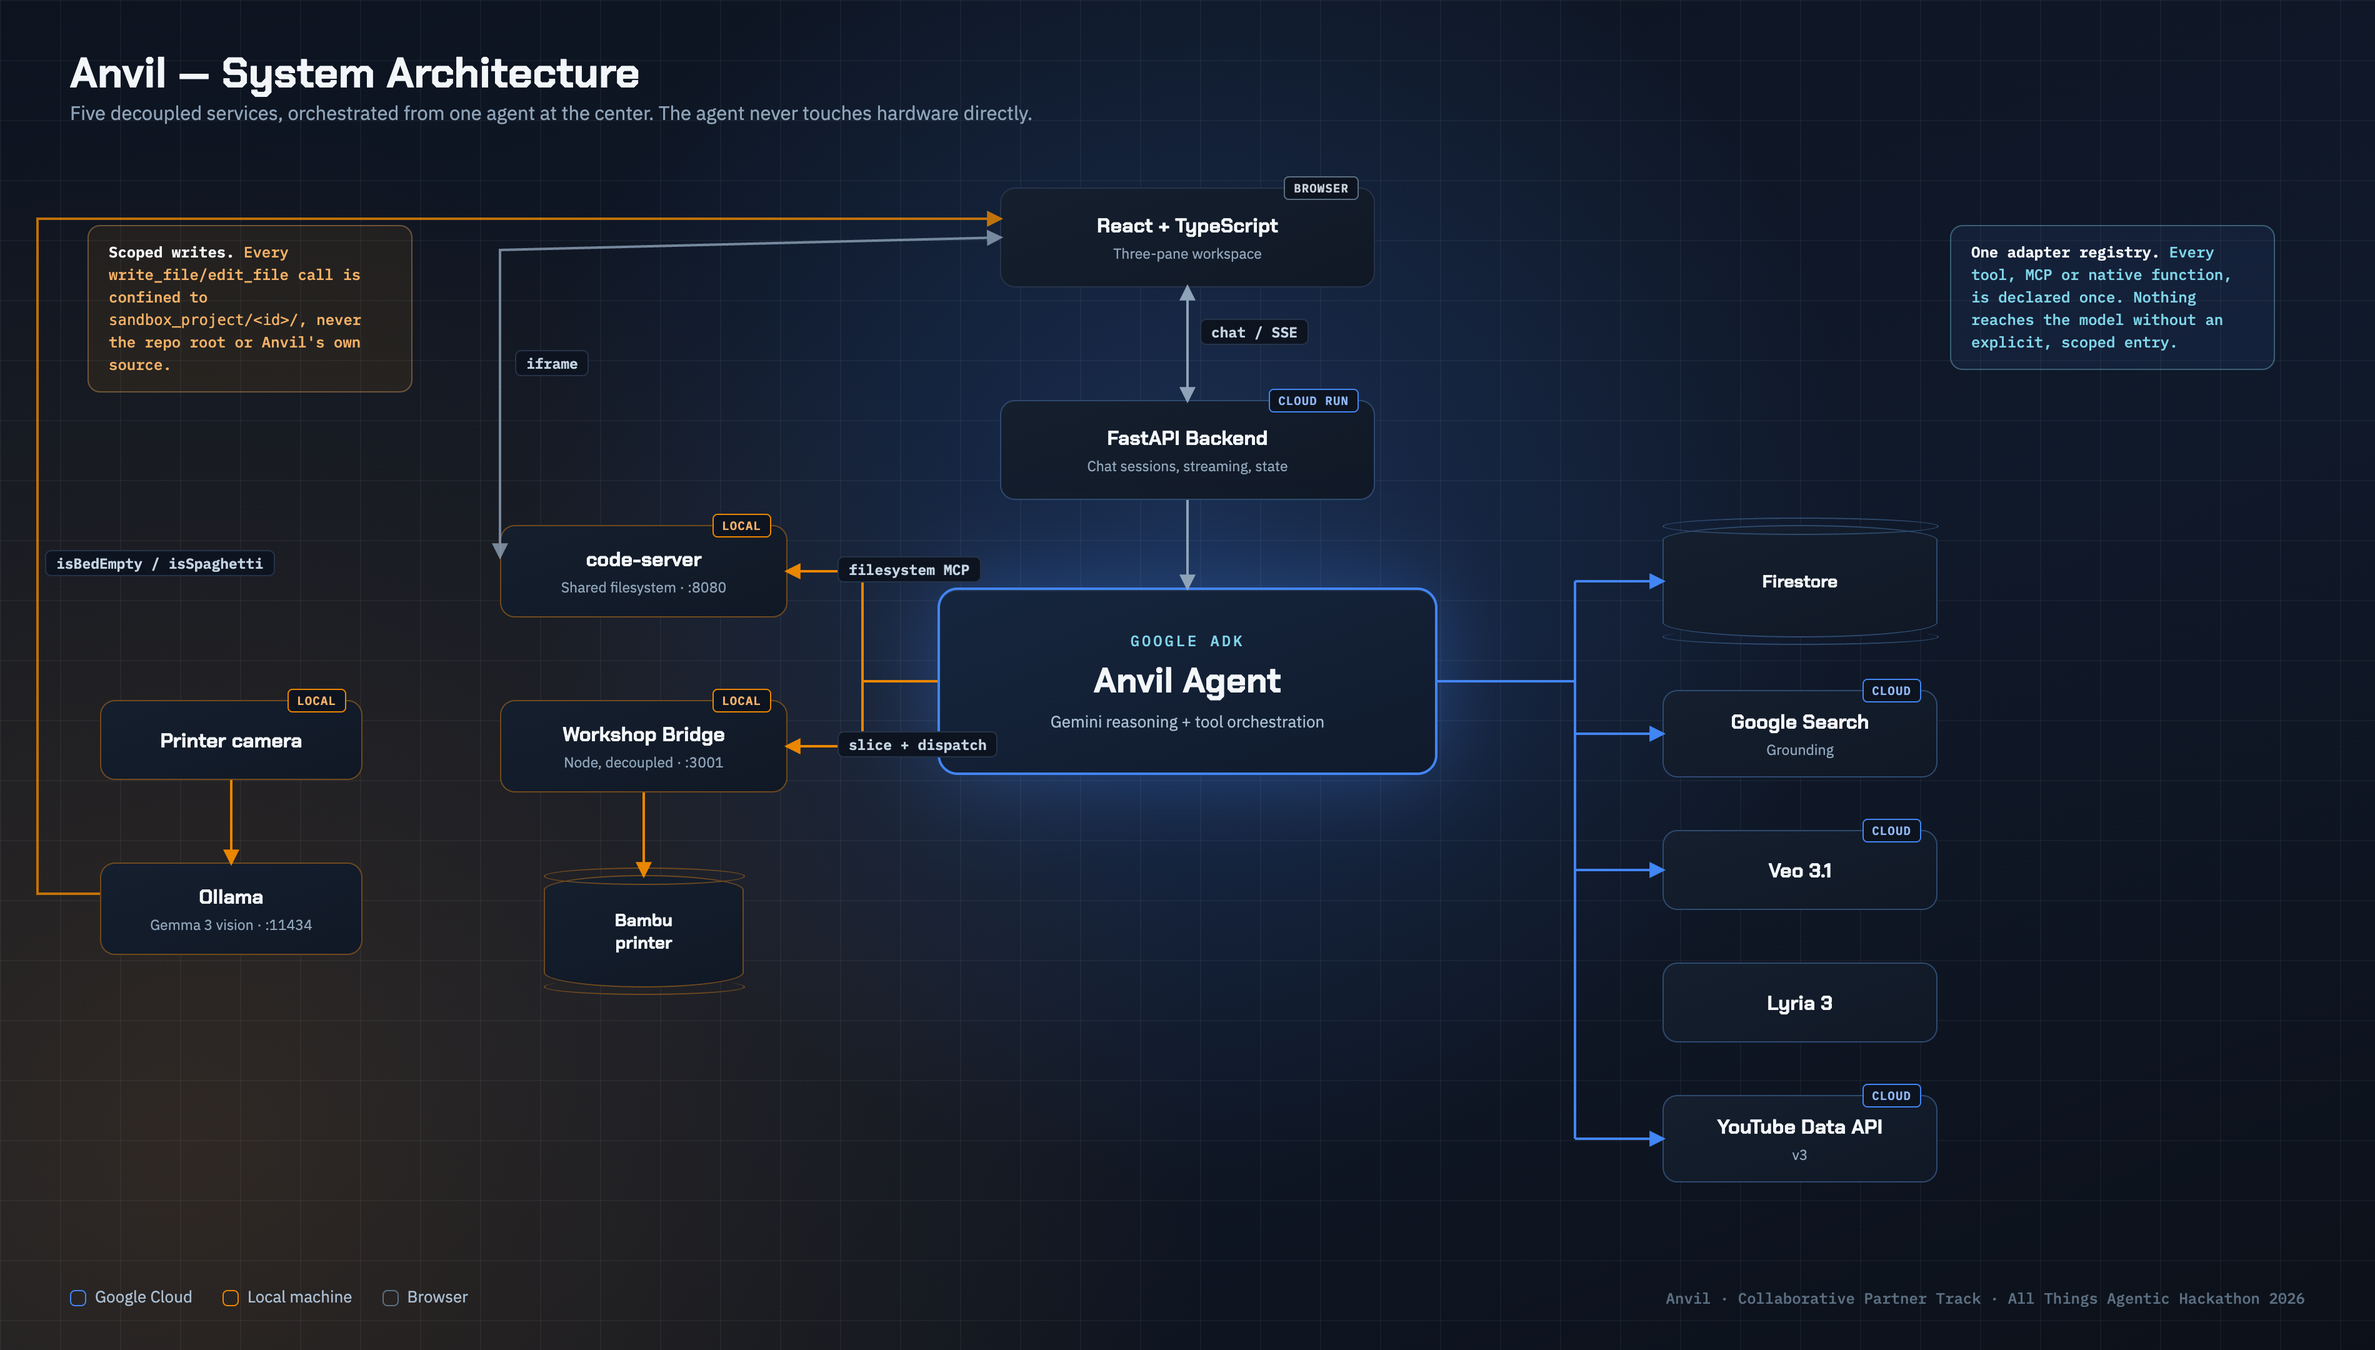
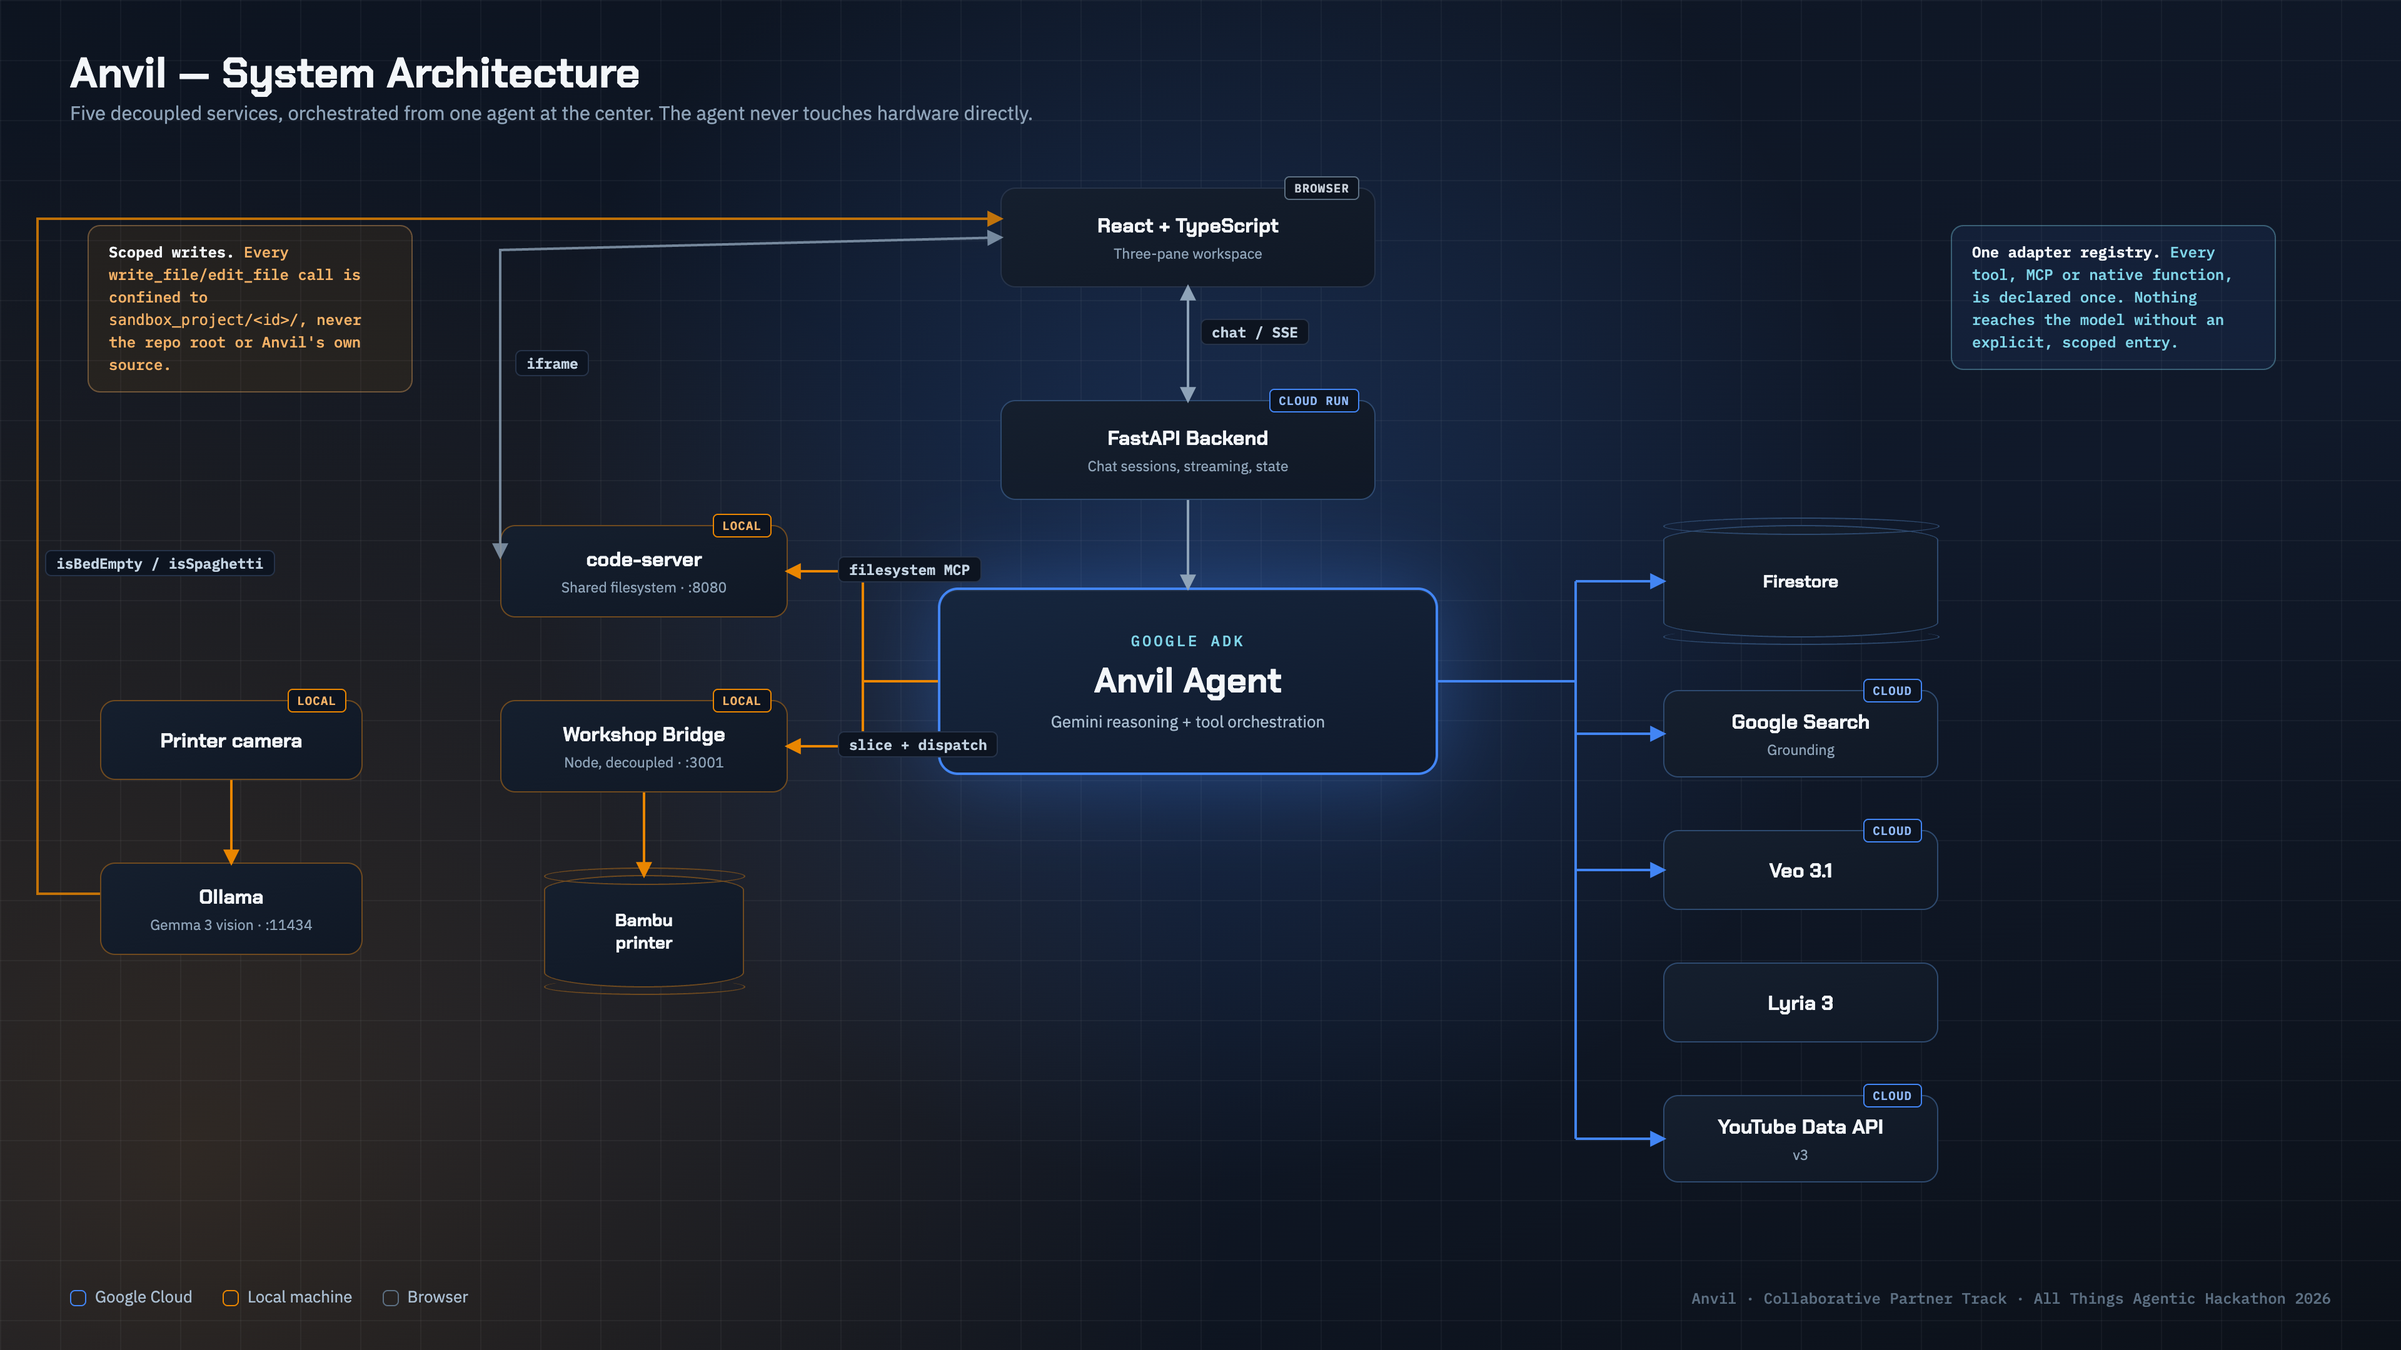
Convert all submission images to 16:9
Resizes the thumbnail (was 3:2) and both architecture diagrams to exact
1920x1080. The overview diagram only needed a canvas widen, but the
tool-registry diagram was a tall single column built specifically to
keep every wire straight — that needed a real relayout: hub on the left,
two columns of four cards, with the far column's wires routed on a rail
above the near column instead of through it, so nothing crosses.

Also fixes a wire-color bug introduced in the relayout: the near
column's trunk was painted solid blue even though it mixes one MCP card
with three Custom ones. Trunk is now neutral, and only the per-card
branch stubs carry a color, matching that card's actual backing type.

diff --git a/submission/assets/_render/architecture-tools.html b/submission/assets/_render/architecture-tools.html
@@ -8,7 +8,7 @@
 <style>
   *{box-sizing:border-box;margin:0;padding:0;}
   body{
-    width:1780px;height:1420px;
+    width:1920px;height:1080px;
     background:
       radial-gradient(circle at 8% 30%, rgba(66,133,244,0.22), transparent 45%),
       radial-gradient(circle at 92% 75%, rgba(234,134,0,0.14), transparent 42%),
@@ -22,48 +22,48 @@
       linear-gradient(90deg, rgba(255,255,255,0.04) 1px, transparent 1px);
     background-size:48px 48px;
   }
-  .stage{position:relative;width:1780px;height:1420px;}
+  .stage{position:relative;width:1920px;height:1080px;}
 
-  h1{font-family:'Chakra Petch',sans-serif;font-weight:700;font-size:36px;color:#f3f6f9;position:absolute;left:64px;top:44px;}
-  .sub{position:absolute;left:64px;top:92px;font-size:16px;color:#8ea3b8;max-width:1000px;}
+  h1{font-family:'Chakra Petch',sans-serif;font-weight:700;font-size:34px;color:#f3f6f9;position:absolute;left:56px;top:36px;}
+  .sub{position:absolute;left:56px;top:82px;font-size:15px;color:#8ea3b8;max-width:1100px;}
 
   .hub{
-    position:absolute;left:64px;top:170px;width:400px;height:1100px;
+    position:absolute;left:60px;top:190px;width:400px;height:740px;
     background:linear-gradient(160deg,#132238,#0f1a2b);
     border:2px solid #4285F4;border-radius:18px;
     box-shadow:0 0 60px rgba(66,133,244,0.25), inset 0 1px 0 rgba(255,255,255,0.06);
-    display:flex;flex-direction:column;align-items:center;justify-content:center;text-align:center;padding:40px;
+    display:flex;flex-direction:column;align-items:center;justify-content:center;text-align:center;padding:36px;
   }
-  .hub .eyebrow{font-family:'IBM Plex Mono',monospace;font-size:13px;letter-spacing:0.18em;color:#7fd4e8;text-transform:uppercase;margin-bottom:18px;}
-  .hub h2{font-family:'Chakra Petch',sans-serif;font-weight:700;font-size:34px;color:#f3f6f9;line-height:1.15;}
-  .hub .sub2{font-size:16px;color:#a9bdd0;margin-top:14px;line-height:1.5;}
-  .hub .stat{margin-top:38px;font-family:'IBM Plex Mono',monospace;font-size:14px;color:#7fd4e8;border-top:1px solid rgba(127,212,232,0.25);padding-top:22px;width:100%;}
-  .hub .stat b{color:#f3f6f9;font-size:22px;display:block;font-weight:600;}
+  .hub .eyebrow{font-family:'IBM Plex Mono',monospace;font-size:12.5px;letter-spacing:0.18em;color:#7fd4e8;text-transform:uppercase;margin-bottom:16px;}
+  .hub h2{font-family:'Chakra Petch',sans-serif;font-weight:700;font-size:31px;color:#f3f6f9;line-height:1.15;}
+  .hub .sub2{font-size:14.5px;color:#a9bdd0;margin-top:13px;line-height:1.5;}
+  .hub .stat{margin-top:32px;font-family:'IBM Plex Mono',monospace;font-size:13px;color:#7fd4e8;border-top:1px solid rgba(127,212,232,0.25);padding-top:20px;width:100%;}
+  .hub .stat b{color:#f3f6f9;font-size:21px;display:block;font-weight:600;}
 
   .card{
-    position:absolute;left:664px;width:1052px;height:120px;
+    position:absolute;width:570px;height:170px;
     background:linear-gradient(160deg,#151f2e,#101825);
     border:1.5px solid #263349;border-radius:14px;
-    padding:16px 22px;display:flex;flex-direction:column;justify-content:center;
+    padding:15px 20px;display:flex;flex-direction:column;justify-content:center;
   }
   .card::before{content:"";position:absolute;left:0;top:14px;bottom:14px;width:4px;border-radius:3px;}
   .card.mcp::before{background:#4285F4;}
   .card.custom::before{background:#EA8600;}
   .card-head{display:flex;align-items:center;justify-content:space-between;margin-bottom:6px;}
-  .card-name{font-family:'Chakra Petch',sans-serif;font-weight:700;font-size:20px;color:#f3f6f9;}
-  .tag{font-family:'IBM Plex Mono',monospace;font-size:10.5px;font-weight:600;letter-spacing:0.06em;padding:3px 9px;border-radius:5px;text-transform:uppercase;}
+  .card-name{font-family:'Chakra Petch',sans-serif;font-weight:700;font-size:19px;color:#f3f6f9;}
+  .tag{font-family:'IBM Plex Mono',monospace;font-size:10px;font-weight:600;letter-spacing:0.06em;padding:3px 8px;border-radius:5px;text-transform:uppercase;}
   .tag.mcp{background:rgba(66,133,244,0.14);color:#8fb8f7;border:1px solid rgba(66,133,244,0.5);}
   .tag.custom{background:rgba(234,134,0,0.14);color:#f4b166;border:1px solid rgba(234,134,0,0.5);}
-  .card-desc{font-size:13.5px;color:#8ea3b8;line-height:1.4;margin-bottom:9px;}
+  .card-desc{font-size:13px;color:#8ea3b8;line-height:1.4;margin-bottom:8px;}
   .chips{display:flex;flex-wrap:wrap;gap:6px;}
-  .chip{font-family:'IBM Plex Mono',monospace;font-size:11.5px;color:#c3d3e2;background:rgba(255,255,255,0.05);border:1px solid rgba(255,255,255,0.1);border-radius:5px;padding:3px 8px;}
+  .chip{font-family:'IBM Plex Mono',monospace;font-size:11px;color:#c3d3e2;background:rgba(255,255,255,0.05);border:1px solid rgba(255,255,255,0.1);border-radius:5px;padding:3px 7px;}
   .chip.more{color:#6b7f93;font-style:italic;border-style:dashed;}
 
   svg.wires{position:absolute;inset:0;overflow:visible;}
 
-  .legend{position:absolute;left:64px;bottom:40px;display:flex;gap:26px;align-items:center;font-size:13.5px;color:#a9bdd0;}
+  .legend{position:absolute;left:56px;bottom:32px;display:flex;gap:26px;align-items:center;font-size:13px;color:#a9bdd0;}
   .legend .sw{width:14px;height:14px;border-radius:4px;display:inline-block;margin-right:8px;vertical-align:middle;}
-  .footer{position:absolute;right:64px;bottom:40px;font-family:'IBM Plex Mono',monospace;font-size:12.5px;color:#5c6f82;}
+  .footer{position:absolute;right:56px;bottom:32px;font-family:'IBM Plex Mono',monospace;font-size:12px;color:#5c6f82;}
 </style>
 </head>
 <body>
@@ -79,50 +79,51 @@
     <div class="stat"><b>65</b>tools across 8 adapters</div>
   </div>
 
-  <!-- 8 adapter cards, single column, one wire each = zero possible crossings -->
-  <div class="card mcp" style="top:170px;">
+  <!-- column 1: near column, straight wires from the hub's right edge -->
+  <div class="card mcp" style="left:650px;top:190px;">
     <div class="card-head"><span class="card-name">filesystem</span><span class="tag mcp">MCP</span></div>
     <div class="card-desc">Read/write/list files in the active project directory only.</div>
     <div class="chips"><span class="chip">read_text_file</span><span class="chip">write_file</span><span class="chip">edit_file</span><span class="chip more">+3 more</span></div>
   </div>
 
-  <div class="card custom" style="top:314px;">
+  <div class="card custom" style="left:650px;top:380px;">
     <div class="card-head"><span class="card-name">cad</span><span class="tag custom">Custom</span></div>
     <div class="card-desc">Parametric multi-part assemblies via build123d — primitives, booleans, fillets, patterns.</div>
     <div class="chips"><span class="chip">add_tube</span><span class="chip">boolean_op</span><span class="chip">circular_pattern</span><span class="chip more">+14 more</span></div>
   </div>
 
-  <div class="card custom" style="top:458px;">
+  <div class="card custom" style="left:650px;top:570px;">
     <div class="card-head"><span class="card-name">circuit</span><span class="tag custom">Custom</span></div>
     <div class="card-desc">Create, read, update, and delete wiring diagrams for the circuit workspace.</div>
     <div class="chips"><span class="chip">create_wiring_diagram</span><span class="chip">get_wiring_diagram</span><span class="chip more">+3 more</span></div>
   </div>
 
-  <div class="card custom" style="top:602px;">
+  <div class="card custom" style="left:650px;top:760px;">
     <div class="card-head"><span class="card-name">printer</span><span class="tag custom">Custom</span></div>
     <div class="card-desc">Slice models with Bambu Studio and send them to a local Bambu printer.</div>
     <div class="chips"><span class="chip">slice_model</span><span class="chip">send_to_printer</span><span class="chip">check_bridge_health</span><span class="chip more">+2 more</span></div>
   </div>
 
-  <div class="card custom" style="top:746px;">
+  <!-- column 2: far column, fed by a bus routed above column 1 -->
+  <div class="card custom" style="left:1310px;top:190px;">
     <div class="card-head"><span class="card-name">state</span><span class="tag custom">Custom</span></div>
     <div class="card-desc">Firestore-backed project state: objective, constraints, inventory, milestones, decisions, skills.</div>
-    <div class="chips"><span class="chip">set_project_objective</span><span class="chip">add_constraint</span><span class="chip">record_decision</span><span class="chip more">+24 more</span></div>
+    <div class="chips"><span class="chip">set_project_objective</span><span class="chip">add_constraint</span><span class="chip more">+26 more</span></div>
   </div>
 
-  <div class="card custom" style="top:890px;">
+  <div class="card custom" style="left:1310px;top:380px;">
     <div class="card-head"><span class="card-name">animation</span><span class="tag custom">Custom</span></div>
     <div class="card-desc">Generate a short explainer animation via Veo, scored automatically by Lyria.</div>
     <div class="chips"><span class="chip">generate_animation</span></div>
   </div>
 
-  <div class="card custom" style="top:1034px;">
+  <div class="card custom" style="left:1310px;top:570px;">
     <div class="card-head"><span class="card-name">youtube_search</span><span class="tag custom">Custom</span></div>
     <div class="card-desc">Find an existing YouTube tutorial — the free, preferred alternative to generating one.</div>
     <div class="chips"><span class="chip">find_tutorial_video</span></div>
   </div>
 
-  <div class="card custom" style="top:1178px;">
+  <div class="card custom" style="left:1310px;top:760px;">
     <div class="card-head"><span class="card-name">datasheet</span><span class="tag custom">Custom</span></div>
     <div class="card-desc">Look up an electronics datasheet on Adafruit's own Learn system.</div>
     <div class="chips"><span class="chip">find_datasheet</span></div>
@@ -130,18 +131,38 @@
 
   <svg class="wires">
     <defs>
-      <marker id="dot" viewBox="0 0 10 10" refX="5" refY="5" markerWidth="5" markerHeight="5">
-        <circle cx="5" cy="5" r="4" fill="#4285F4"/>
-      </marker>
+      <marker id="d1" viewBox="0 0 10 10" refX="5" refY="5" markerWidth="5" markerHeight="5"><circle cx="5" cy="5" r="4" fill="#4285F4"/></marker>
+      <marker id="d2" viewBox="0 0 10 10" refX="5" refY="5" markerWidth="5" markerHeight="5"><circle cx="5" cy="5" r="4" fill="#EA8600"/></marker>
     </defs>
-    <path d="M 464 230 C 560 230, 560 230, 664 230" fill="none" stroke="#4285F4" stroke-width="2" opacity="0.7" marker-end="url(#dot)"/>
-    <path d="M 464 374 C 560 374, 560 374, 664 374" fill="none" stroke="#EA8600" stroke-width="2" opacity="0.7" marker-end="url(#dot)"/>
-    <path d="M 464 518 C 560 518, 560 518, 664 518" fill="none" stroke="#EA8600" stroke-width="2" opacity="0.7" marker-end="url(#dot)"/>
-    <path d="M 464 662 C 560 662, 560 662, 664 662" fill="none" stroke="#EA8600" stroke-width="2" opacity="0.7" marker-end="url(#dot)"/>
-    <path d="M 464 806 C 560 806, 560 806, 664 806" fill="none" stroke="#EA8600" stroke-width="2" opacity="0.7" marker-end="url(#dot)"/>
-    <path d="M 464 950 C 560 950, 560 950, 664 950" fill="none" stroke="#EA8600" stroke-width="2" opacity="0.7" marker-end="url(#dot)"/>
-    <path d="M 464 1094 C 560 1094, 560 1094, 664 1094" fill="none" stroke="#EA8600" stroke-width="2" opacity="0.7" marker-end="url(#dot)"/>
-    <path d="M 464 1238 C 560 1238, 560 1238, 664 1238" fill="none" stroke="#EA8600" stroke-width="2" opacity="0.7" marker-end="url(#dot)"/>
+
+    <!-- column 1: neutral trunk (it's a mix of MCP + Custom, so no single
+         color is accurate for it) + one branch stub colored to match each
+         card's own actual backing type -->
+    <path d="M 460 560 L 600 560 M 600 275 L 600 845"
+          fill="none" stroke="#5c6f82" stroke-width="2"/>
+    <path d="M 600 275 L 650 275" stroke="#4285F4" stroke-width="2"/>
+    <path d="M 600 465 L 650 465" stroke="#EA8600" stroke-width="2"/>
+    <path d="M 600 655 L 650 655" stroke="#EA8600" stroke-width="2"/>
+    <path d="M 600 845 L 650 845" stroke="#EA8600" stroke-width="2"/>
+    <circle cx="650" cy="275" r="4" fill="#4285F4"/>
+    <circle cx="650" cy="465" r="4" fill="#EA8600"/>
+    <circle cx="650" cy="655" r="4" fill="#EA8600"/>
+    <circle cx="650" cy="845" r="4" fill="#EA8600"/>
+
+    <!-- column 2: every card here really is Custom, so the uniform amber
+         trunk is accurate as drawn — routed on a rail ABOVE column 1's
+         cards (y=160, clear of column 1's top edge at y=190), then down
+         into a second vertical bus between the two columns, so the wire
+         never crosses column 1 -->
+    <path d="M 260 190 L 260 160 L 1265 160 L 1265 275
+             M 1265 275 L 1265 845
+             M 1265 275 L 1310 275 M 1265 465 L 1310 465
+             M 1265 655 L 1310 655 M 1265 845 L 1310 845"
+          fill="none" stroke="#EA8600" stroke-width="2"/>
+    <circle cx="1310" cy="275" r="4" fill="#EA8600"/>
+    <circle cx="1310" cy="465" r="4" fill="#EA8600"/>
+    <circle cx="1310" cy="655" r="4" fill="#EA8600"/>
+    <circle cx="1310" cy="845" r="4" fill="#EA8600"/>
   </svg>
 
   <div class="legend">

diff --git a/submission/assets/_render/architecture.html b/submission/assets/_render/architecture.html
@@ -8,7 +8,7 @@
 <style>
   *{box-sizing:border-box;margin:0;padding:0;}
   body{
-    width:1900px;height:1080px;
+    width:1920px;height:1080px;
     background:
       radial-gradient(circle at 50% 38%, rgba(66,133,244,0.20), transparent 46%),
       radial-gradient(circle at 8% 85%, rgba(234,134,0,0.14), transparent 42%),
@@ -22,7 +22,7 @@
       linear-gradient(90deg, rgba(255,255,255,0.04) 1px, transparent 1px);
     background-size:48px 48px;
   }
-  .stage{position:relative;width:1900px;height:1080px;}
+  .stage{position:relative;width:1920px;height:1080px;}
 
   h1{font-family:'Chakra Petch',sans-serif;font-weight:700;font-size:34px;color:#f3f6f9;position:absolute;left:56px;top:36px;}
   .sub{position:absolute;left:56px;top:80px;font-size:15.5px;color:#8ea3b8;max-width:900px;}

diff --git a/submission/assets/_render/thumbnail.html b/submission/assets/_render/thumbnail.html
@@ -8,7 +8,7 @@
 <style>
   *{box-sizing:border-box;margin:0;padding:0;}
   body{
-    width:1500px;height:1000px;
+    width:1920px;height:1080px;
     background:
       radial-gradient(circle at 82% 30%, rgba(66,133,244,0.30), transparent 48%),
       radial-gradient(circle at 8% 90%, rgba(234,134,0,0.18), transparent 42%),
